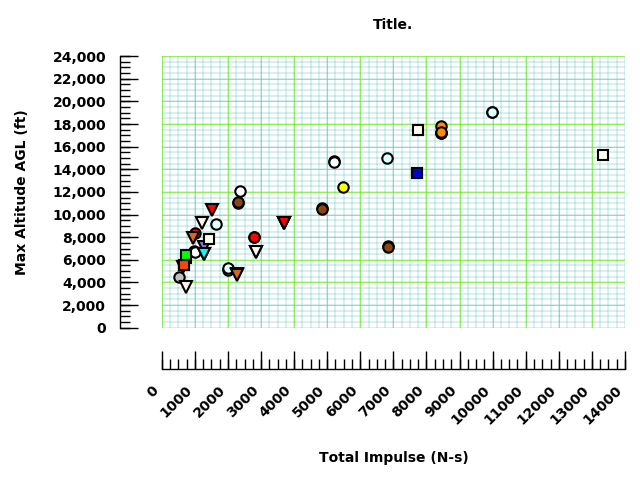
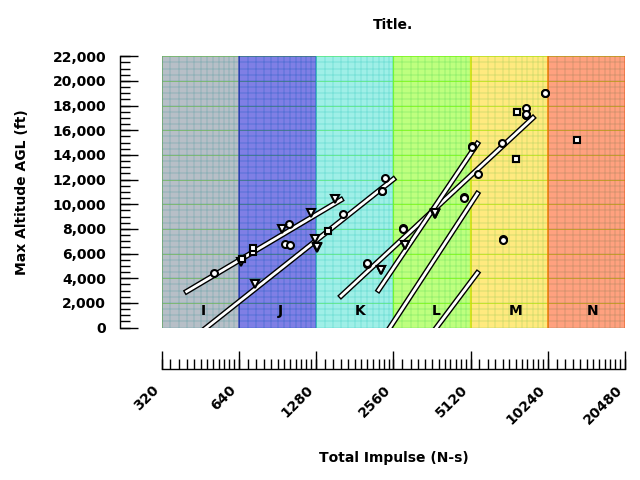
Made progress on semilog plot.

diff --git a/plots/NewLog_v1.py b/plots/NewLog_v1.py
@@ -12,8 +12,8 @@ import os
 import sys
 import numpy as np
 import matplotlib
-#matplotlib.use('TkAgg')
-matplotlib.use('Agg')
+matplotlib.use('TkAgg')
+#matplotlib.use('Agg')
 import matplotlib.pyplot as plt
 import matplotlib.patheffects as mpe
 import matplotlib.font_manager as font_manager
@@ -281,26 +281,34 @@ ytxt = r"Max Altitude AGL (ft)"
 
 # axes limits
 xmin = 0
-xmax = 14000
+xmax = 6
 ymin = 0
-ymax = 24000
+ymax = 22000
 
 # axes tick settings
-nx = 15
-ny = 13
+nx = 7
+ny = 12
 dx = (xmax-xmin)/(nx-1.0)
 dy = (ymax-ymin)/(ny-1.0)
-mx = 4
 my = 4
-xticks = [r"0",r"1000",r"2000",r"3000",r"4000",r"5000",r"6000",\
-    r"7000",r"8000",r"9000",r"10000",r"11000",r"12000",\
-    r"13000",r"14000"]
+xticks = ["320","640","1280","2560","5120","10240","20480"]
 yticks = [r"0",r"2,000",r"4,000",r"6,000",r"8,000",r"10,000",\
-    r"12,000",r"14,000",r"16,000",r"18,000",r"20,000",r"22,000",\
-    r"24,000"]
+    r"12,000",r"14,000",r"16,000",r"18,000",r"20,000",r"22,000"]
+
+# Base 2 math to place minor x-axis tick marks.
+mx=12
+lett=[320,640,1280,2560,5120,10240,20480]
+xminor=np.zeros(mx*len(lett)+1)
+jj=0
+for ll in lett:
+    for ii in range(mx):
+        xminor[jj] = ll+ll*ii/mx
+        jj+=1
+xminor[-1]=2*lett[-1]
+xminor=np.log(np.divide(xminor,320.0))/np.log(2.0)
 
 # figure settings
-figsize = (4,2.75)
+figsize = (11,9)
 dpi = 1000
 
 # text settings
@@ -359,7 +367,7 @@ ax.get_xaxis().set_tick_params(which='minor',length=7.0,width=1.0)
 ax.axis([xmin,xmax,ymin,ymax])
 ax.xaxis.set_ticks(np.linspace(xmin,xmax,nx))
 ax.yaxis.set_ticks(np.linspace(ymin,ymax,ny))
-minorLocatorX = ticker.MultipleLocator(dx/mx)
+minorLocatorX = matplotlib.ticker.FixedLocator(xminor)
 minorLocatorY = ticker.MultipleLocator(dy/my)
 ax.xaxis.set_minor_locator(minorLocatorX)
 ax.yaxis.set_minor_locator(minorLocatorY)
@@ -384,60 +392,150 @@ ax.set_yticklabels(yticks,fontsize=10,weight='bold')
 ### ADD YOUR DATA HERE ###
 ##########################
 
+# I-Range
+itot=np.linspace(0,1)
+ylow=itot-1.e6
+yhig=itot+1.e6
+plt.fill_between(itot,yhig,ylow,interpolate=True,alpha=0.5,\
+    color='slategrey',label='_nolegend_')
+plt.text(0.5,1000,r'I',fontsize=10,family=family,\
+    color='k',fontweight='bold')
 
-# Loop over rocket kits (k)
-for k in range(6):
+# J-Range
+itot=np.linspace(1,2)
+ylow=itot-1.e6
+yhig=itot+1.e6
+plt.fill_between(itot,yhig,ylow,interpolate=True,alpha=0.5,\
+    color='mediumblue',label='_nolegend_')
+plt.text(1.5,1000,r'J',fontsize=10,family=family,\
+    color='k',fontweight='bold')
 
-    if k==0:
-        [ttl,data,symb] = FlightLog_DSJrWM()
-    if k==1:
-        [ttl,data,symb] = FlightLog_Comp3WM()
-    if k==2:
-        [ttl,data,symb] = FlightLog_ExtremeDS()
-    if k==3:
-        [ttl,data,symb,d2,s2] = FlightLog_Intimidator4()
-        data=d2
-        symb=s2
-    if k==4:
-        [ttl,data,symb,d2,s2] = FlightLog_Intimidator4()
-    if k==5:
-        [ttl,data,symb] = FlightLog_GizmoXLDD()
+# K-Range
+itot=np.linspace(2,3)
+ylow=itot-1.e6
+yhig=itot+1.e6
+plt.fill_between(itot,yhig,ylow,interpolate=True,alpha=0.5,\
+    color='turquoise',label='_nolegend_')
+plt.text(2.5,1000,r'K',fontsize=10,family=family,\
+    color='k',fontweight='bold')
 
-    # Flight Data
-    nf=0
-    for flight in data:
-        nf=nf+1
-    print "There are ",nf," flights in the databse."
-    xdat=np.zeros(nf)
-    ydat=np.zeros(nf)
-    ii=0
-    for flight in data:
-        xdat[ii]=flight[5]
-        ydat[ii]=flight[7]
-        ii+=1
+# L-Range
+itot=np.linspace(3,4)
+ylow=itot-1.e6
+yhig=itot+1.e6
+plt.fill_between(itot,yhig,ylow,interpolate=True,alpha=0.5,\
+    color='chartreuse',label='_nolegend_')
+plt.text(3.5,1000,r'L',fontsize=10,family=family,\
+    color='k',fontweight='bold')
 
-    # Loop over flights in data (i)
-    i=0
-    for flight in data:
+# M-Range
+itot=np.linspace(4,5)
+ylow=itot-1.e6
+yhig=itot+1.e6
+plt.fill_between(itot,yhig,ylow,interpolate=True,alpha=0.5,\
+    color='gold',label='_nolegend_')
+plt.text(4.5,1000,r'M',fontsize=10,family=family,\
+    color='k',fontweight='bold')
 
-        # Loop over marker parameters (j)
-        j=0
-        for marker in symb:
-            if (i==j):
-                ms = marker[0]*0.75
-                mt = marker[1]
-                mc = marker[2]
-            j+=1
-        mfg = flight[4]
-        motor = flight[3]
-        str1=r'%s %s'%(mfg,motor)
-        print str1
+# N-Range
+itot=np.linspace(5,6)
+ylow=itot-1.e6
+yhig=itot+1.e6
+plt.fill_between(itot,yhig,ylow,interpolate=True,alpha=0.5,\
+    color='orangered',label='_nolegend_')
+plt.text(5.5,1000,r'N',fontsize=10,family=family,\
+    color='k',fontweight='bold')
 
-        plt.plot(xdat[i],ydat[i],'ko',markersize=ms,\
-            markeredgewidth=1.5,markeredgecolor='k',\
-            markerfacecolor=mc,label='_nolegend_',marker=mt)
+# Loop twice over all flight data
+#   jj=0 linear regression
+#   jj=1 scatter plots
+#
+for jj in range(2):
 
-        i+=1
+    # Loop over rocket kits (k)
+    for k in range(6):
+
+        if k==0:
+            [ttl,data,symb] = FlightLog_DSJrWM()
+            lb = np.log(400./320.)/np.log(2.)
+            ub = np.log(1600./320.)/np.log(2.)
+            linecolor='red'
+            rlabel='Darkstar Jr.'
+        if k==1:
+            [ttl,data,symb] = FlightLog_Comp3WM()
+            lb = np.log(600/320)/np.log(2)
+            ub = np.log(2600/320)/np.log(2)
+            linecolor='black'
+            rlabel='Competitor 3'
+        if k==2:
+            [ttl,data,symb] = FlightLog_ExtremeDS()
+            lb = np.log(1600/320)/np.log(2)
+            ub = np.log(9000/320)/np.log(2)
+            linecolor='darkgoldenrod'
+            rlabel='Extreme Darkstar'
+        if k==3:
+            [ttl,data,symb,d2,s2] = FlightLog_Intimidator4()
+            lb = np.log(2500/320)/np.log(2)
+            ub = np.log(5500/320)/np.log(2)
+            linecolor='orangered'
+            rlabel='Intimidator 4'
+        if k==4:
+            [ttl,data,symb,d2,s2] = FlightLog_Intimidator4()
+            data=d2
+            symb=s2
+        if k==5:
+            [ttl,data,symb] = FlightLog_GizmoXLDD()
+            lb = np.log(2500/320)/np.log(2)
+            ub = np.log(5500/320)/np.log(2)
+            linecolor='teal'
+            rlabel='GizmoXL DD'
+
+        # Flight Data
+        nf=0
+        for flight in data:
+            nf=nf+1
+        print "There are ",nf," flights in the databse."
+        xdat=np.zeros(nf)
+        ydat=np.zeros(nf)
+        ii=0
+        for flight in data:
+            xdat[ii]=np.log(flight[5]/320.0)/np.log(2.0)
+            ydat[ii]=flight[7]
+            ii+=1
+
+        # Curve Fit
+        # slope, intercept, r_value, p_value, std_err
+        if nf>1 and jj==0:
+            [m,b,r,p,std]=sp.stats.linregress(xdat,ydat)
+            xfit=np.linspace(lb,ub)
+            yfit=np.multiply(xfit,m)+b
+
+            outline=mpe.withStroke(linewidth=4.0,foreground='black')
+            plt.plot(xfit,yfit,'k-',color='w',linewidth=2.0,\
+                label=rlabel,\
+                path_effects=[outline])
+
+        # Loop over flights in data (i)
+        i=0
+        for flight in data:
+
+            # Loop over marker parameters (j)
+            j=0
+            for marker in symb:
+                if (i==j):
+                    ms = marker[0]*0.5
+                    mt = marker[1]
+                    mc = marker[2]
+                j+=1
+            mfg = flight[4]
+            motor = flight[3]
+            str1=r'%s %s'%(mfg,motor)
+            print str1
+            if (jj==1):
+                plt.plot(xdat[i],ydat[i],'ko',markersize=ms,\
+                    markeredgewidth=1.5,markeredgecolor='k',\
+                    markerfacecolor='w',label='_nolegend_',marker=mt)
+            i+=1
 
 # save the image
 plt.tight_layout()
